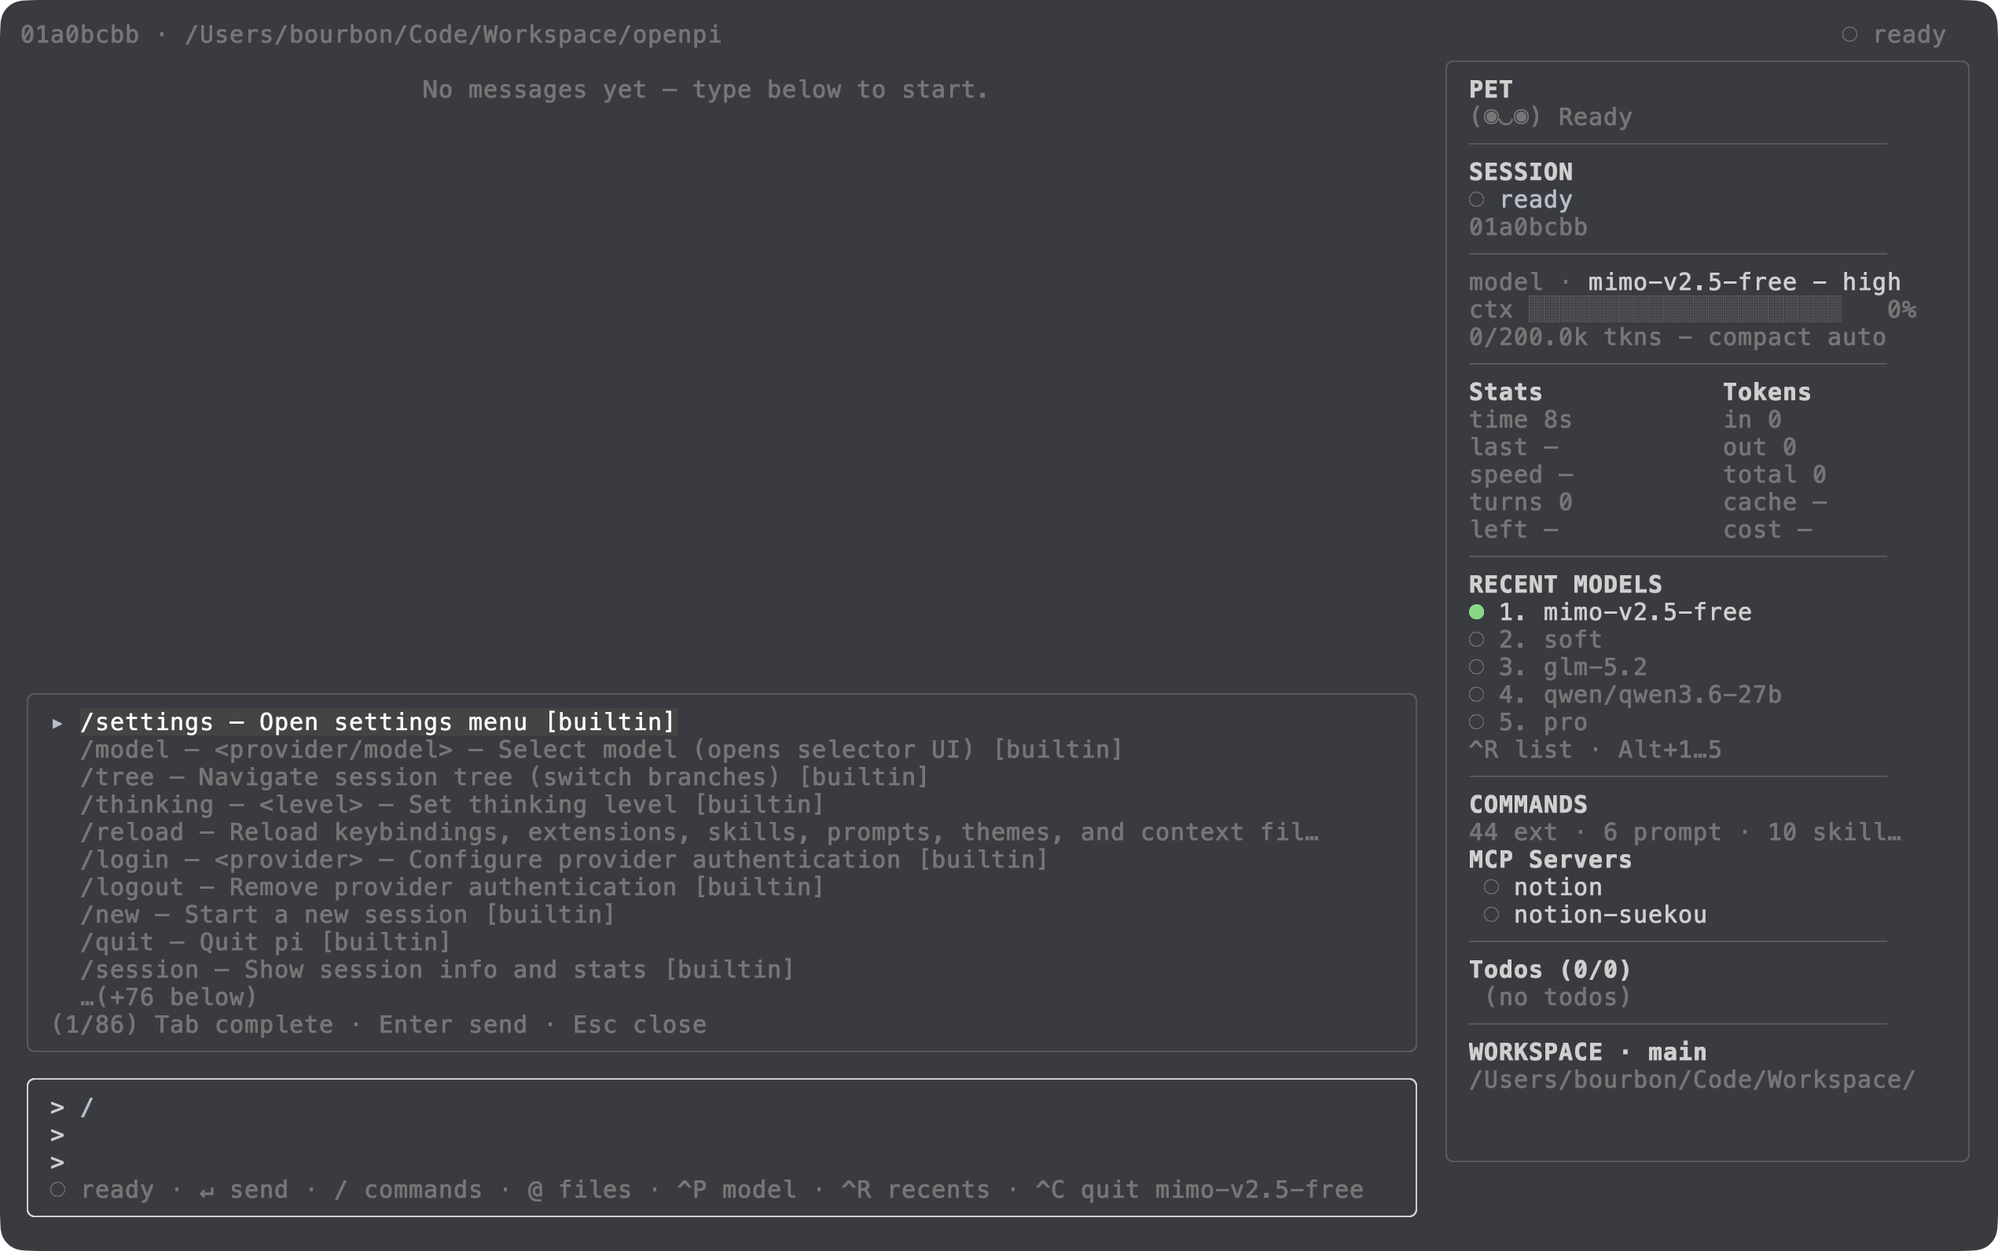
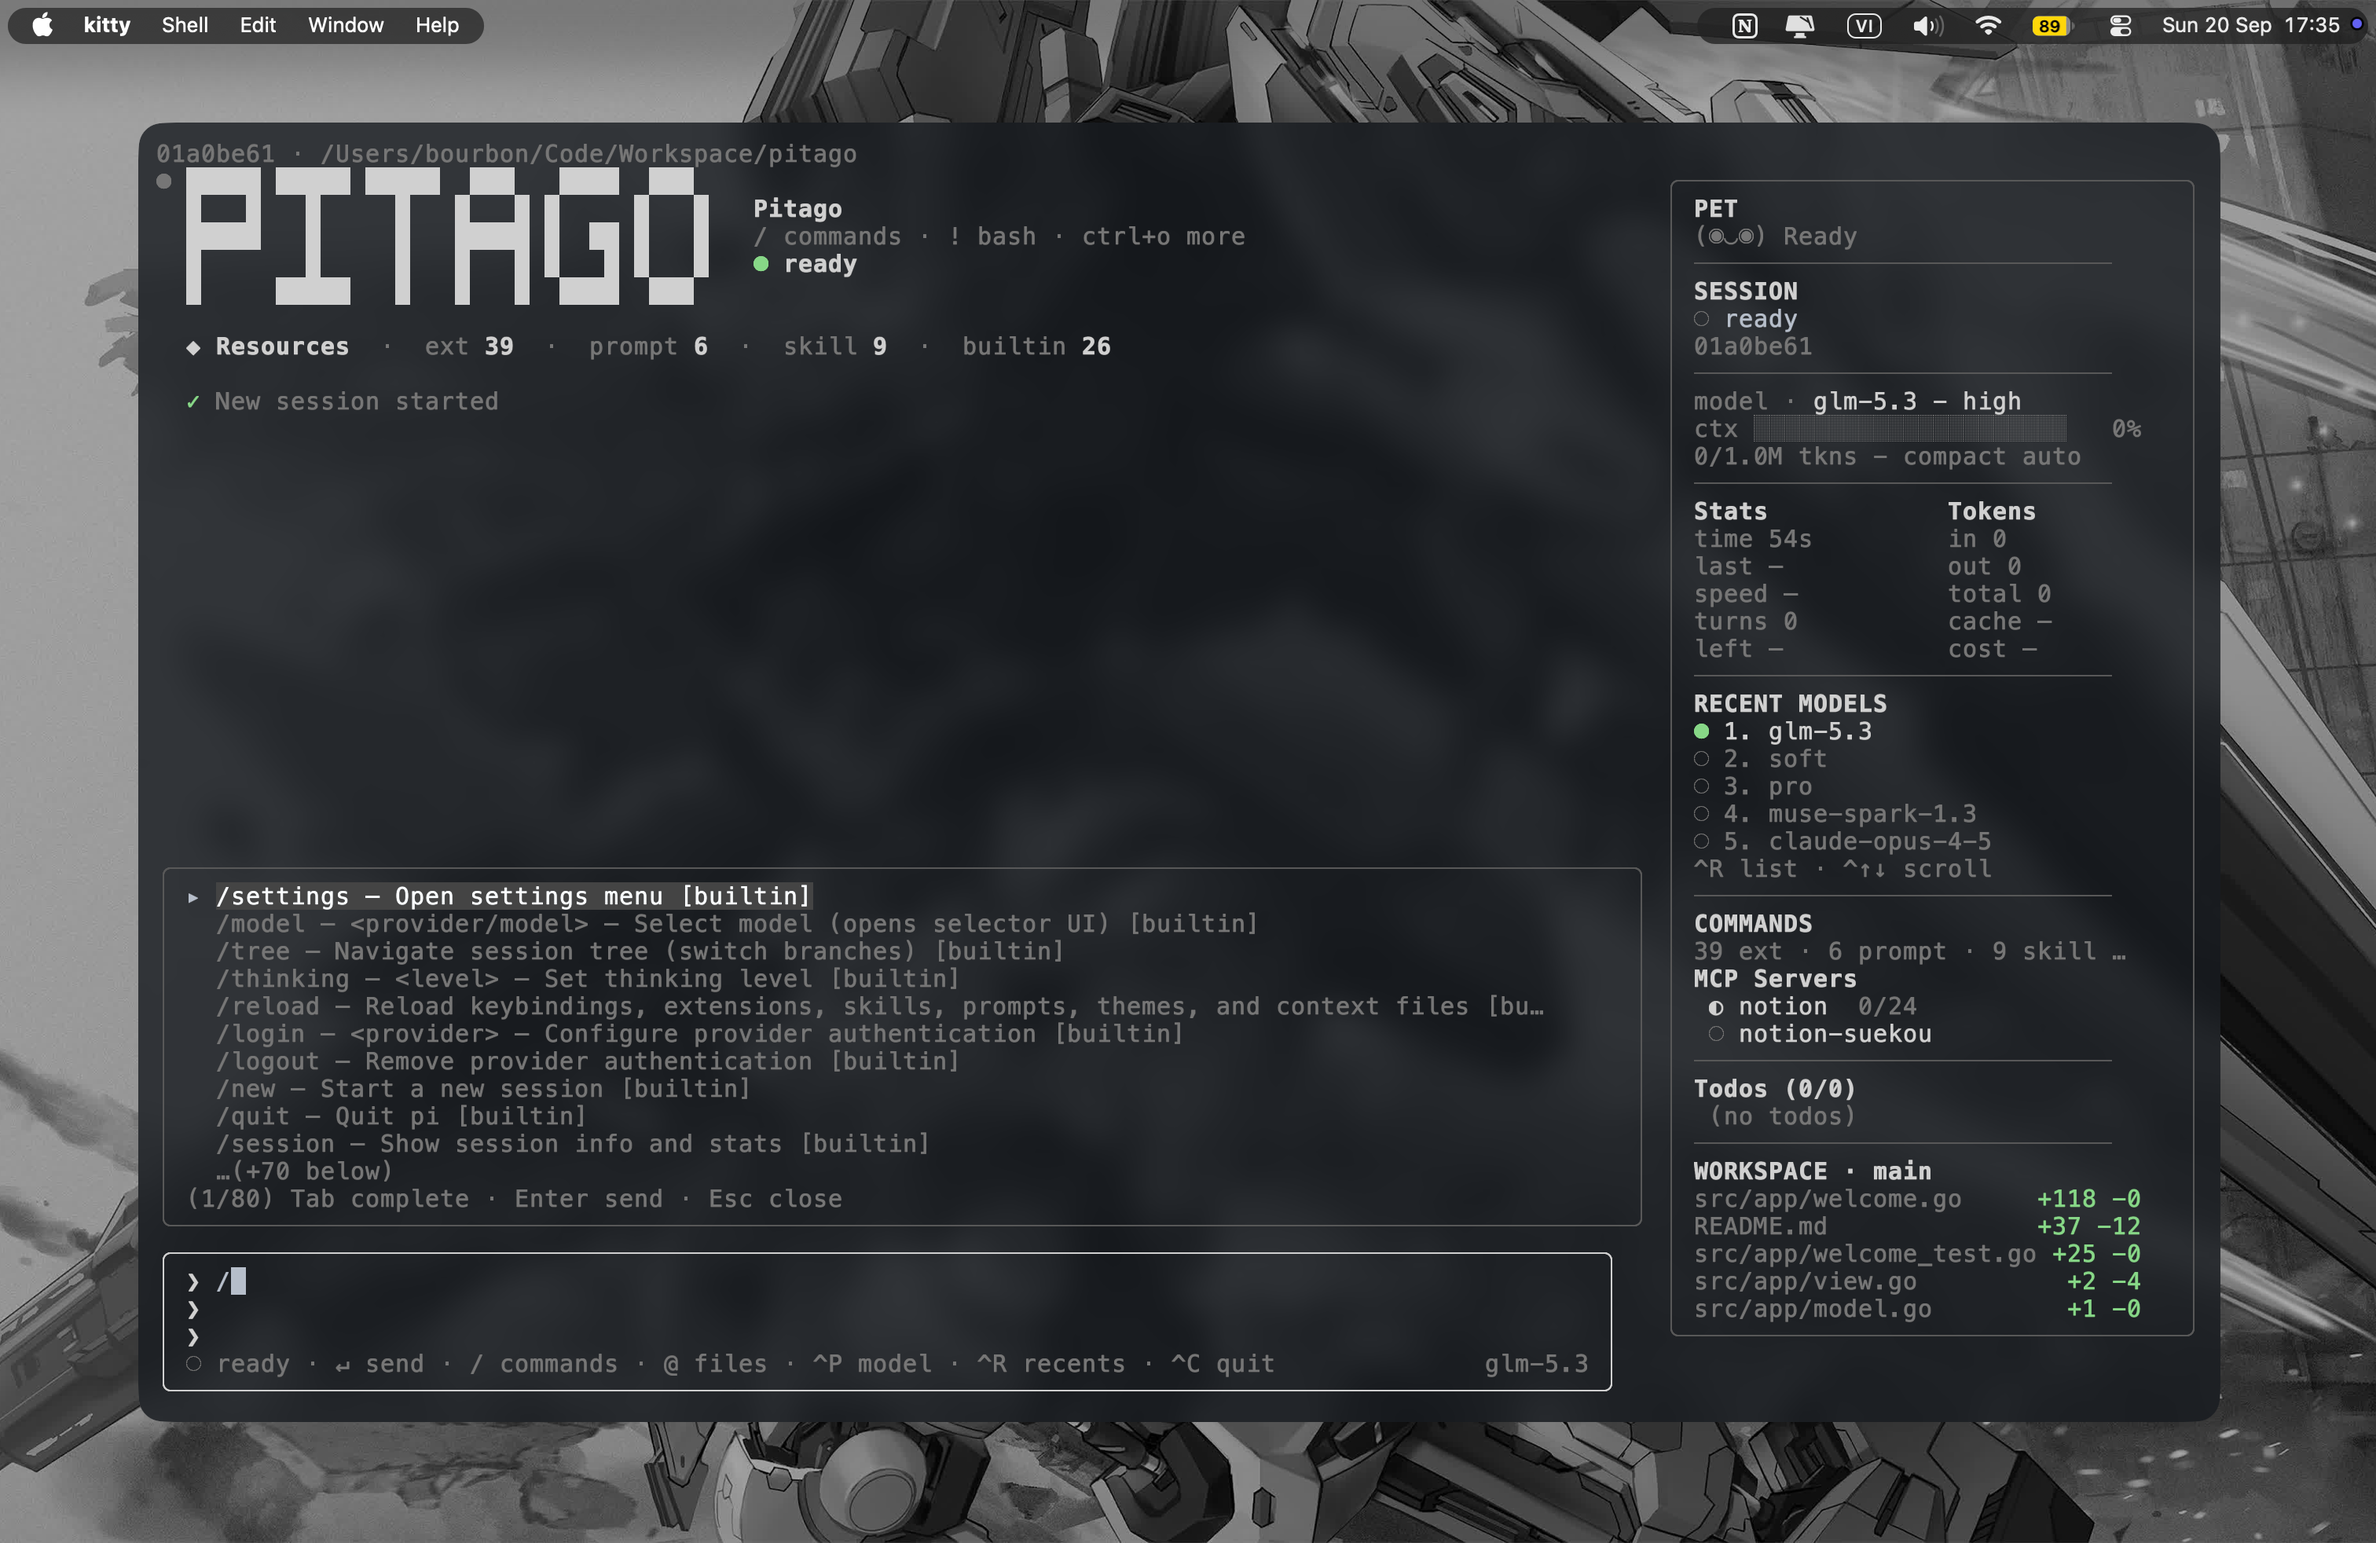
chore - update doc

diff --git a/src/app/welcome.go b/src/app/welcome.go
@@ -1,0 +1,118 @@
+// welcomeView renders the pi-style startup header for an empty chat:
+// logo + version + key hints + ready, then a Resources line built from
+// what `pi --mode rpc` actually exposes (get_commands counts).
+//
+// Why not the exact pi numbers (system 1 · context 1 · tools 19 ·
+// skills 53 · extensions 18 · themes 25)? Those come from pi-droid-styling's
+// in-process patch (startup-ui.ts → session.resourceLoader), which never
+// runs over RPC — the daemon only serves get_state/get_messages/
+// get_session_stats/get_commands. So system/context/tools/themes counts
+// are invisible here; we show ext/prompt/skill/builtin instead.
+// Exact parity needs an upstream `get_resources` RPC method in pi.
+package app
+
+import (
+	"strings"
+
+	"github.com/charmbracelet/lipgloss"
+
+	"pitago/src/extension"
+)
+
+// brandLogo is "PITAGO" in 5-row block letters (1-col gaps, padded even).
+var brandLogo = buildBrandLogo()
+
+// brandGlyphs are the 5x5 block glyphs for P I T A G O.
+var brandGlyphs = [][5]string{
+	{"█████", "█   █", "█████", "█    ", "█    "}, // P
+	{"█████", "  █  ", "  █  ", "  █  ", "█████"}, // I
+	{"█████", "  █  ", "  █  ", "  █  ", "  █  "}, // T
+	{" ███ ", "█   █", "█████", "█   █", "█   █"}, // A
+	{" ████", "█    ", "█  ██", "█   █", " ████"}, // G
+	{" ███ ", "█   █", "█   █", "█   █", " ███ "}, // O
+}
+
+func buildBrandLogo() []string {
+	rows := make([]string, 5)
+	for r := range rows {
+		parts := make([]string, len(brandGlyphs))
+		for i, g := range brandGlyphs {
+			parts[i] = g[r]
+		}
+		rows[r] = strings.TrimRight(strings.Join(parts, " "), " ")
+	}
+	w := 0
+	for _, ln := range rows {
+		if dw := lipgloss.Width(ln); dw > w {
+			w = dw
+		}
+	}
+	for i, ln := range rows {
+		rows[i] = ln + strings.Repeat(" ", w-lipgloss.Width(ln))
+	}
+	return rows
+}
+
+// welcomeView is the empty-chat startup header (pi compactHeader parity,
+// monochrome: white like the rest of the pitago theme).
+func (m Model) welcomeView(w int) string {
+	logo := make([]string, len(brandLogo))
+	for i, ln := range brandLogo {
+		logo[i] = lipgloss.NewStyle().Foreground(cText).Render(ln)
+	}
+	title := sideTitleStyle.Render("Pitago")
+	if m.AppVersion != "" && m.AppVersion != "dev" {
+		title += statusBarStyle.Render(" v"+m.AppVersion)
+	}
+	hints := statusBarStyle.Render("/ commands · ! bash · ctrl+o more")
+	ready := okStyle.Render("●") + " " + sideTitleStyle.Render("ready")
+	details := []string{title, hints, ready}
+
+	ext, prm, skl, bin := extension.Summarize(m.Cmds)
+	res := sideTitleStyle.Render("◆") + " " +
+		sideTitleStyle.Render("Resources") +
+		statusBarStyle.Render("  ·  ") + statusBarStyle.Render("ext ") +
+		sideTitleStyle.Render(itoa(ext)) +
+		statusBarStyle.Render("  ·  prompt ") +
+		sideTitleStyle.Render(itoa(prm)) +
+		statusBarStyle.Render("  ·  skill ") +
+		sideTitleStyle.Render(itoa(skl)) +
+		statusBarStyle.Render("  ·  builtin ") +
+		sideTitleStyle.Render(itoa(bin))
+	newSess := okStyle.Render("✓") + " " + statusBarStyle.Render("New session started")
+
+	logoW := lipgloss.Width(brandLogo[0])
+	if w >= logoW+30 {
+		// side-by-side like pi: details vertically centered on the logo
+		start := (len(logo) - len(details)) / 2
+		if start < 0 {
+			start = 0
+		}
+		rows := make([]string, len(logo))
+		for i := range logo {
+			row := logo[i]
+			if j := i - start; j >= 0 && j < len(details) {
+				row += "   " + details[j]
+			}
+			rows[i] = row
+		}
+		rows = append(rows, "", res, "", newSess)
+		return gutter(statusBarStyle.Render("●"), strings.Join(rows, "\n")+"\n")
+	}
+	rows := append(append(append([]string{}, logo...), details...), "", res, "", newSess)
+	return gutter(statusBarStyle.Render("●"), strings.Join(rows, "\n")+"\n")
+}
+
+func itoa(n int) string {
+	if n == 0 {
+		return "0"
+	}
+	var b [16]byte
+	p := len(b)
+	for n > 0 {
+		p--
+		b[p] = byte('0' + n%10)
+		n /= 10
+	}
+	return string(b[p:])
+}

diff --git a/src/app/welcome_test.go b/src/app/welcome_test.go
@@ -1,0 +1,25 @@
+package app
+
+import (
+	"strings"
+	"testing"
+
+	"pitago/src/pirpc"
+)
+
+func TestWelcomeView(t *testing.T) {
+	m := Model{AppVersion: "0.0.1", Cmds: []pirpc.RepoCommand{
+		{Name: "mcp", Source: "extension"},
+		{Name: "council", Source: "prompt"},
+		{Name: "skill:archify", Source: "skill"},
+		{Name: "model", Source: "builtin"},
+	}}
+	for _, w := range []int{100, 40} {
+		got := stripANSI(m.welcomeView(w))
+		for _, want := range []string{"Pitago v0.0.1", "ready", "Resources", "New session started", "█████"} {
+			if !strings.Contains(got, want) {
+				t.Fatalf("width %d missing %q:\n%s", w, want, got)
+			}
+		}
+	}
+}

diff --git a/src/app/view.go b/src/app/view.go
@@ -57,10 +57,8 @@ func (m Model) renderBlocks() string {
 		cw = 10
 	}
 	if len(m.blocks) == 0 && m.connErr == "" {
-		empty := lipgloss.NewStyle().Foreground(cMuted).Width(w).
-			Align(lipgloss.Center).
-			Render("\nNo messages yet — type below to start.\n")
-		b.WriteString(empty)
+		// fresh chat: pi-style startup header (logo + resources + ready)
+		b.WriteString(m.welcomeView(w))
 	}
 	if m.connErr != "" {
 		b.WriteString(gutter(errStyle.Render("×"), errStyle.Render("! "+m.connErr)+"\n"))

diff --git a/src/app/model.go b/src/app/model.go
@@ -71,6 +71,7 @@ type Model struct {
 	baseVpH      int
 	cwd          string
 	ModelLbl     string
+	AppVersion   string // pitago build version for the welcome header ("" = omit)
 	thinkLvl     string // thinking level from get_state
 	autoCompact  bool   // auto-compaction from get_state
 	ctxWindow    int    // model context window from get_state/stats

diff --git a/src/main.go b/src/main.go
@@ -61,6 +61,7 @@ func main() {
 	pimark.Prewarm() // warm pi's render bridge so first message isn't slow
 
 	m := app.New(pi, cwd)
+	m.AppVersion = version
 	m.Configure(opts, keyPath)
 	m.Mouse = *mouse
 	m.UseBuiltins(builtin.All(), builtin.Confirmers())

diff --git a/README.md b/README.md
@@ -1,5 +1,15 @@
 # pitago
 
+<div align="center">
+<pre>
+████  ███ █████  ███   ███   ███
+█   █  █    █   █   █ █     █   █
+████   █    █   █████ █  ██ █   █
+█      █    █   █   █ █   █ █   █
+█     ███   █   █   █  ███   ███
+</pre>
+</div>
+
 ![pitago screenshot](resources/Screenshot.png)
 
 ![pitago demo](resources/demo.gif)
@@ -26,25 +36,34 @@ pitago wraps the `pi` agent in a beautiful terminal interface with:
 
 ## Install
 
-Two ways: install once into a `bin` on your PATH, or keep the binary
-local to the project. No Go toolchain needed for the release binaries —
-only for building from source.
-
-> Release assets are named `pitago-<tag>-<os>-<arch>`
-> (`pitago-v0.0.1-linux-amd64`, `pitago-v0.0.1-darwin-arm64`, …).
-> Windows gets a `.exe`. Get them from the
-> [Releases page](https://github.com/cavaldos/pitago/releases).
-
 ### Option 1 — install into bin (use anywhere)
 
-From a release binary:
+From a release binary (latest version, pick your OS):
 
 ```bash
-# Pick the asset matching your OS/arch, e.g. v0.0.1 on Linux
-curl -L -o pitago https://github.com/cavaldos/pitago/releases/download/v0.0.1/pitago-v0.0.1-linux-amd64
+# Resolve the latest version tag, e.g. v0.0.3
+TAG=$(curl -fsSL https://api.github.com/repos/cavaldos/pitago/releases/latest | grep '"tag_name"' | cut -d'"' -f4)
+
+# macOS (Apple Silicon)
+curl -L -o pitago "https://github.com/cavaldos/pitago/releases/download/$TAG/pitago-$TAG-darwin-arm64"
+
+# macOS (Intel)
+curl -L -o pitago "https://github.com/cavaldos/pitago/releases/download/$TAG/pitago-$TAG-darwin-amd64"
+
+# Linux
+curl -L -o pitago "https://github.com/cavaldos/pitago/releases/download/$TAG/pitago-$TAG-linux-amd64"
+
 chmod +x pitago
 sudo mv pitago /usr/local/bin/pitago   # or ~/go/bin, ~/.local/bin — any dir on PATH
 pitago --version
+```
+
+Windows (PowerShell):
+
+```powershell
+$TAG=(Invoke-RestMethod https://api.github.com/repos/cavaldos/pitago/releases/latest).tag_name
+Invoke-WebRequest "https://github.com/cavaldos/pitago/releases/download/$TAG/pitago-$TAG-windows-amd64.exe" -OutFile pitago.exe
+# move pitago.exe somewhere on your PATH, then: pitago --version
 ```
 
 From source:
@@ -59,9 +78,25 @@ pitago --version
 
 Uninstall (if installed into bin):
 
+macOS:
+
 ```bash
 sudo rm /usr/local/bin/pitago   # or wherever you put it: ~/go/bin, ~/.local/bin, …
 rm -rf ~/.config/pitago         # optional: remove saved API keys + recent models
+```
+
+Linux:
+
+```bash
+sudo rm /usr/local/bin/pitago   # or wherever you put it: ~/go/bin, ~/.local/bin, …
+rm -rf ~/.config/pitago         # optional: remove saved API keys + recent models
+```
+
+Windows (PowerShell):
+
+```powershell
+del C:\path\to\pitago.exe              # wherever you placed it (a folder on your PATH)
+Remove-Item -Recurse -Force $HOME\.config\pitago   # optional: remove saved API keys + recent models
 ```
 
 ### Option 2 — run local in the project (no install)

diff --git a/resources/doc/CONTRIBUTING.md b/resources/doc/CONTRIBUTING.md
@@ -1,0 +1,83 @@
+# Contributing Guide — pitago
+
+## Requirements
+
+- Go ≥ 1.27
+- `pi` on PATH (or point `PI_BIN` at the pi binary)
+- A provider API key (e.g. `ANTHROPIC_API_KEY`), or run `/login` inside the app
+
+## Dev loop
+
+```bash
+script/run.sh            # run straight from source, no build needed
+go run ./src ~/Code/workspace   # open another working directory
+go run ./src -c          # resume the most recent session
+```
+
+## Code layout
+
+```
+src/main.go       # entry: flags, spawn pi, wire packages, run
+src/app/          # TUI shell (Bubble Tea Model/Update/View, dialogs, sidepanels)
+src/components/   # pure components, testable without TUI state
+src/builtin/      # locally-executed builtins over RPC (/model, /login, /settings...)
+src/extension/    # pi extension protocol (permission UI, command sources)
+src/pirpc/        # JSONL client for `pi --mode rpc` (stdlib only)
+tests/            # black-box integration tests
+```
+
+### 3 import rules (mandatory)
+
+1. `src/app` **never** imports `src/builtin` or `src/extension`.
+   The only wiring point is `main.go` via `m.UseBuiltins(...)`.
+2. `src/builtin` may operate on `*app.Model` (already wired, no reverse import).
+3. `src/extension` is pure helpers (no TUI state).
+
+### `/` command origin rule
+
+- `OriginPi` — re-implements a pi TUI builtin over RPC (pi's own builtins don't
+  run over RPC, so they must be re-implemented, e.g. `/model`).
+- `OriginPitago` — pitago's own command (e.g. `/recent`).
+- Everything from `get_commands` (extension/prompt/skill) runs pi-side by
+  forwarding prompt text.
+
+## Tests
+
+- **White-box unit tests** (`*_test.go` next to the code in `src/...`): may touch
+  private fields/methods. Go requires these files to live in the same folder as
+  the code.
+- **Black-box integration tests** (`tests/integration/`): public API only
+  (`app.New`, `Model.View`/`Update`, `src/components/*`).
+- RPC tests (`src/pirpc`) need a real `pi` on PATH — they self-skip without it.
+
+```bash
+go test ./src/app/ ./src/builtin/ ./src/pirpc/ ./tests/...
+```
+
+## Checklist before opening a PR
+
+```bash
+go vet ./...
+go build -o /tmp/pitago ./src
+go test ./...
+```
+
+## Commit messages
+
+Conventional commits: `feat:`, `fix:`, `chore:`, `docs:`.
+Example: `feat: pi-style welcome header on empty chat`.
+
+## Release
+
+```bash
+script/test-cicd.sh        # vet + test + trial builds locally first
+script/release.sh v0.0.4   # tag push → workflow builds 4 binaries + publishes a Release
+```
+
+Assets are named `pitago-<tag>-<os>-<arch>` (Windows gets `.exe`) — renaming
+them means the install links in `README.md` (Option 1) must be updated too.
+
+## Never commit
+
+API keys, secrets, or `~/.config/pitago/keys.json`. Pass keys via environment
+variables (`env:`), see Configuration Files in `README.md`.
